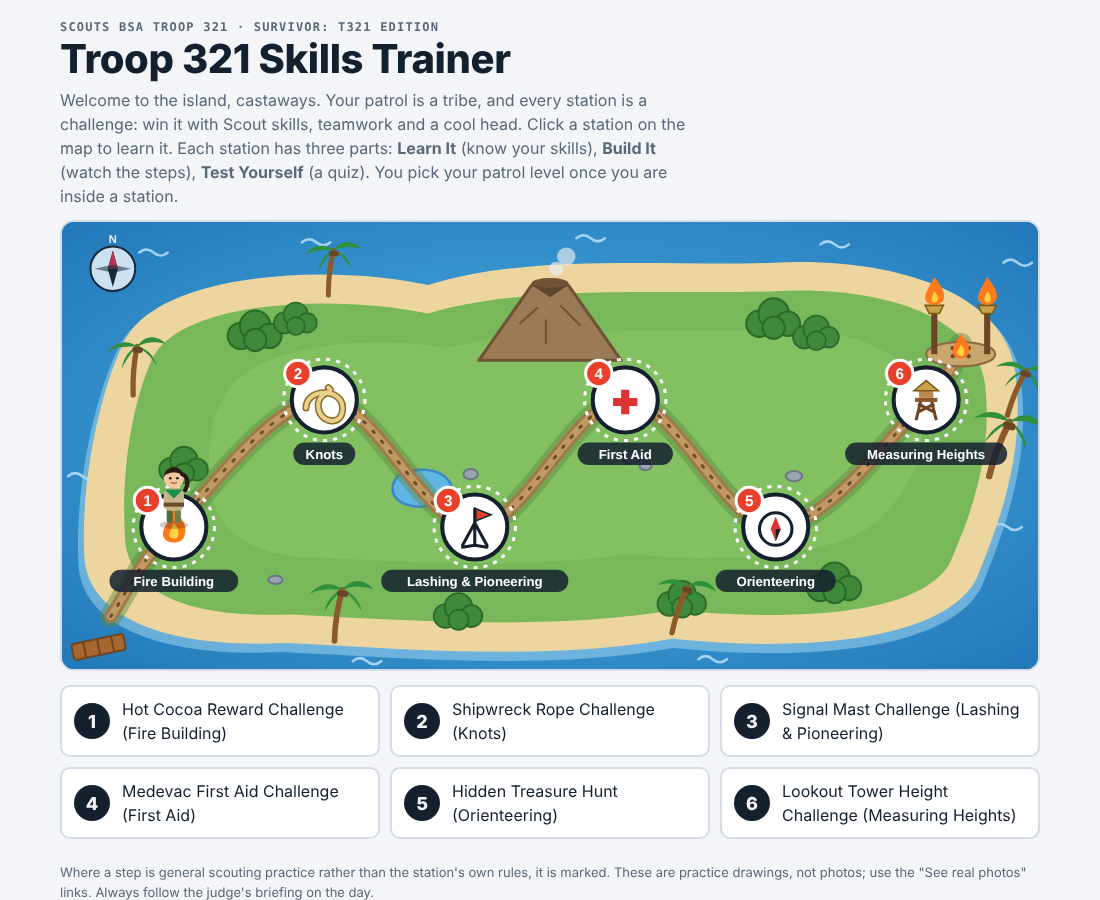
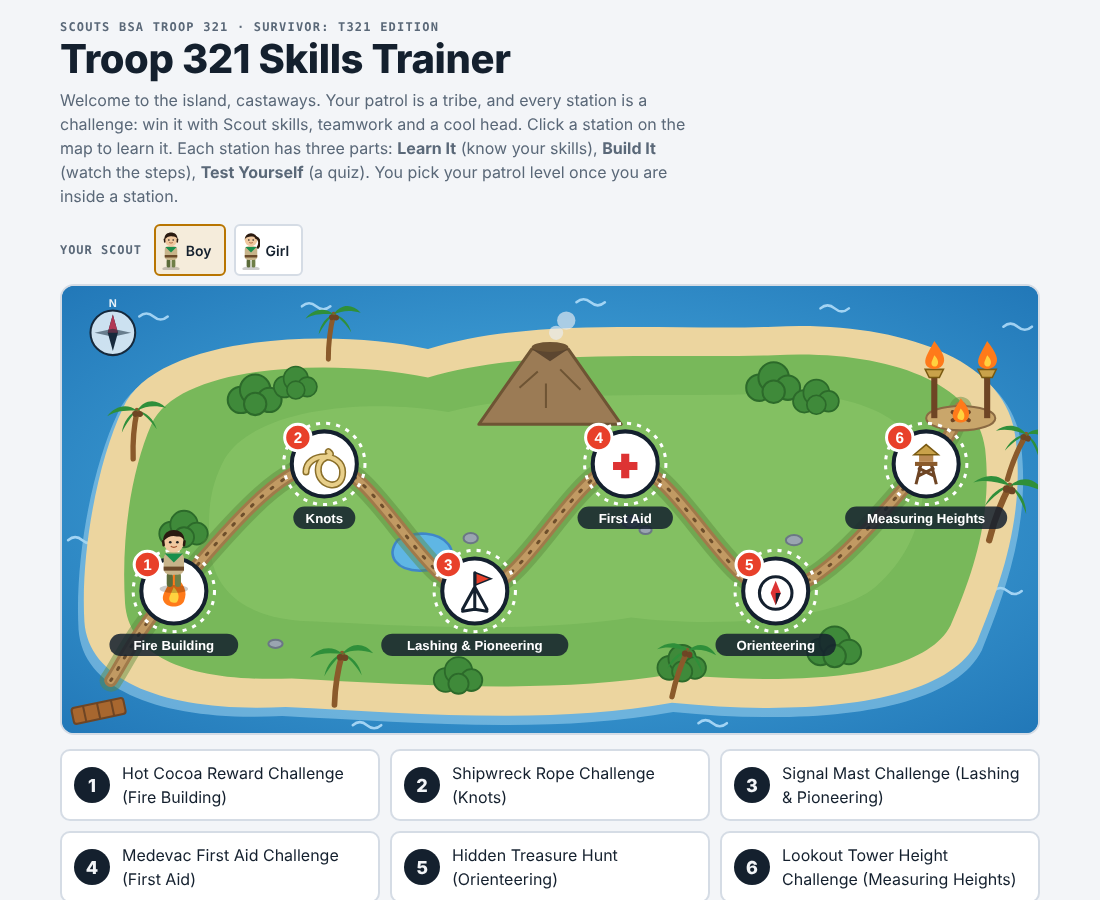
Let scouts choose a boy or girl scout on the map
- "Your scout: Boy / Girl" picker above the island map, with a small
  preview of each figure; the choice is remembered per device
- New boy figure (short hair); the girl figure keeps her ponytail
- Default is Boy; switching updates the scout on the map instantly

Claude-Session: https://claude.ai/code/session_01KXBQg6WSUbtGTmjtFy61pH

diff --git a/index.html b/index.html
@@ -22,6 +22,9 @@ button:focus-visible,a:focus-visible,[tabindex]:focus-visible{outline:3px solid 
 .lv button{font:600 14px var(--disp);padding:8px 14px;border-radius:6px;border:2px solid var(--line);background:var(--panel);color:var(--fg);cursor:pointer}
 .lv button[aria-pressed=true]{color:#fff;border-color:transparent}
 .lv button[data-l=T][aria-pressed=true]{background:#1a8f4c}.lv button[data-l=W][aria-pressed=true]{background:#b87500}.lv button[data-l=B][aria-pressed=true]{background:#c0304a}
+.scpick{display:flex;align-items:center;gap:8px;flex-wrap:wrap;margin:10px 0 8px}.scpick .lvlab{margin:0 4px 0 0}
+.scpick button{display:inline-flex;align-items:center;gap:6px;font:600 14px var(--disp);padding:4px 12px 4px 6px;border-radius:6px;border:2px solid var(--line);background:var(--panel);color:var(--fg);cursor:pointer}
+.scpick button[aria-pressed=true]{border-color:var(--acc);background:color-mix(in srgb,var(--acc) 14%,var(--panel))}
 .lvlab{font:600 12px var(--mono);color:var(--mute);margin-top:14px;text-transform:uppercase;letter-spacing:.08em}
 /* map */
 #map{margin-top:6px}
@@ -160,6 +163,15 @@ function drawGlv(){
   document.querySelectorAll('#glv button').forEach(b=>b.onclick=()=>{LEVEL=b.dataset.l;try{localStorage.setItem('cp-level',LEVEL)}catch(e){}drawGlv();document.documentElement.style.setProperty('--acc',LV[LEVEL].col);
     if(!$('#st').hidden){openStation(cur.id,cur.tab)}else drawMap()});
 }
+/* ---------- map scout: boy or girl, remembered per device ---------- */
+let SCOUT='boy';try{const v=localStorage.getItem('cp-scout');if(v==='boy'||v==='girl')SCOUT=v}catch(e){}
+const scoutFig=k=>`<ellipse cx="0" cy="2" rx="14" ry="4" fill="#0003"/>
+   <g class="lg1"><rect x="-7" y="-14" width="6" height="14" rx="3" fill="#5b6b3a"/></g><g class="lg2"><rect x="1" y="-14" width="6" height="14" rx="3" fill="#6f7f48"/></g>
+   <rect x="-10" y="-34" width="20" height="22" rx="6" fill="#c8b48a"/><path d="M-9-33 0-24 9-33Z" fill="#1a8f4c"/><rect x="-10" y="-20" width="20" height="4" fill="#6b4a2a"/>
+   <circle cy="-44" r="10" fill="#f0c9a0"/>${k==='girl'
+    ?'<path d="M-10-45a10 10 0 0 1 20 0c-3-6-17-6-20 0Z" fill="#2a1a10"/><path d="M8-48c6 2 7 10 3 16" stroke="#2a1a10" stroke-width="4" fill="none" stroke-linecap="round"/>'
+    :'<path d="M-10.5-44.5C-11-53-5-56 0-56S11-53 10.5-44.5C9-49 6-50 3-49.5-1-51-6-50-10.5-44.5Z" fill="#2a1a10"/><path d="M-10.5-45-10-41" stroke="#2a1a10" stroke-width="2.5" stroke-linecap="round"/><path d="M10.5-45 10-41" stroke="#2a1a10" stroke-width="2.5" stroke-linecap="round"/>'}
+   <circle cx="-3.5" cy="-44" r="1.3" fill="#222"/><circle cx="3.5" cy="-44" r="1.3" fill="#222"/><path d="M-3-40q3 2 6 0" stroke="#a0522d" stroke-width="1.2" fill="none"/>`;
 /* ---------- landing map ---------- */
 /* Station order on the map. To add a station: define ST.<id> and NINFO.<id> (name, skill, res = learn-more links, ic = map icon), then add the id here.
    Ids are stable keys (saved scores use them), so never reuse or renumber an old id.
@@ -181,18 +193,14 @@ function drawMap(){
   $('#st').hidden=true;$('#map').hidden=false;$('#lvbox').hidden=true;
   const pts=[[48,388],...NODES.map(n=>[n.x,n.y]),[884,120]];
   const pd=catmull(pts);
-  const sc=`<g id="scout" transform="translate(${NODES[scoutAt].x},${NODES[scoutAt].y-4})"><g id="scoutin"><ellipse cx="0" cy="2" rx="14" ry="4" fill="#0003"/>
-   <g class="lg1"><rect x="-7" y="-14" width="6" height="14" rx="3" fill="#5b6b3a"/></g><g class="lg2"><rect x="1" y="-14" width="6" height="14" rx="3" fill="#6f7f48"/></g>
-   <rect x="-10" y="-34" width="20" height="22" rx="6" fill="#c8b48a"/><path d="M-9-33 0-24 9-33Z" fill="#1a8f4c"/><rect x="-10" y="-20" width="20" height="4" fill="#6b4a2a"/>
-   <circle cy="-44" r="10" fill="#f0c9a0"/><path d="M-10-45a10 10 0 0 1 20 0c-3-6-17-6-20 0Z" fill="#2a1a10"/><path d="M8-48c6 2 7 10 3 16" stroke="#2a1a10" stroke-width="4" fill="none" stroke-linecap="round"/><circle cx="-3.5" cy="-44" r="1.3" fill="#222"/><circle cx="3.5" cy="-44" r="1.3" fill="#222"/>
-   <path d="M-3-40q3 2 6 0" stroke="#a0522d" stroke-width="1.2" fill="none"/></g></g>`;
+  const sc=`<g id="scout" transform="translate(${NODES[scoutAt].x},${NODES[scoutAt].y-4})"><g id="scoutin">${scoutFig(SCOUT)}</g></g>`;
   const nodes=NODES.map((n,i)=>{const I=NINFO[n.id],live=LIVE.includes(n.id);const stz=starsOf(n.id);
     return `<g class="node${live?'':' locked'}" tabindex="0" role="button" aria-label="Station ${i+1}: ${I.name} (${I.skill})${live?'':' (coming soon)'}" data-i="${i}" transform="translate(${n.x},${n.y})">
      <circle class="ring" r="40" fill="none" stroke="#fff" stroke-width="3" stroke-dasharray="4 6"/><g class="disc"><circle r="32" fill="${live?'#fff':'#cfd6de'}" stroke="#14202e" stroke-width="4"/><g transform="translate(0,2)">${I.ic}</g></g>
      <circle cx="-26" cy="-26" r="13" fill="#e8402a" stroke="#fff" stroke-width="3"/>${tx(-26,-21,i+1,{s:15,f:'#fff',w:800})}
      ${live?'':`<g transform="translate(24,-26)"><rect x="-10" y="-8" width="20" height="16" rx="3" fill="#6b7c8f"/><path d="M-5-8v-4a5 5 0 0 1 10 0v4" stroke="#6b7c8f" stroke-width="3" fill="none"/></g>`}
      <g class="skl"><rect x="${-I.skill.length*4.1-10}" y="42" width="${I.skill.length*8.2+20}" height="22" rx="11" fill="#14202e" opacity=".85"/>${tx(0,58,I.skill,{s:13,f:'#fff'})}</g>${stz?tx(0,84,stz,{s:16,f:'#ffd23f'}):''}</g>`}).join('');
-  $('#map').innerHTML=`<div class="world">${sv(`
+  $('#map').innerHTML=`<div class="scpick" role="group" aria-label="Choose your scout"><span class="lvlab">Your scout</span>${[['boy','Boy'],['girl','Girl']].map(([k,t])=>`<button data-s="${k}" aria-pressed="${k===SCOUT}"><svg viewBox="-14 -60 28 64" width="18" height="40" aria-hidden="true">${scoutFig(k)}</svg>${t}</button>`).join('')}</div><div class="world">${sv(`
    <defs><radialGradient id="sea" cx="50%" cy="50%" r="75%"><stop offset="0" stop-color="#4fb4e6"/><stop offset="1" stop-color="#1f74b5"/></radialGradient></defs>
    <rect width="960" height="440" fill="url(#sea)"/>
    ${[[90,30],[250,20],[520,16],[760,22],[930,300],[640,430],[300,432],[20,250],[940,40]].map(([x,y])=>`<path d="M${x-14} ${y}q7-6 14 0t14 0" fill="none" stroke="#bfe6ff" stroke-width="2.5" stroke-linecap="round" opacity=".8"/>`).join('')}
@@ -216,6 +224,8 @@ function drawMap(){
    <div class="slist">${NODES.map((n,i)=>{const live=LIVE.includes(n.id);return `<button class="sbtn" data-i="${i}"${live?'':' disabled'}><span class="n">${i+1}</span><span>${NINFO[n.id].name} (${NINFO[n.id].skill})<small>${live?'':'Coming soon'} <span class="stars">${starsOf(n.id)}</span></small></span></button>`}).join('')}</div>`;
   const road=document.getElementById('road');const L=road.getTotalLength();
   pathLens=NODES.map(n=>{let bi=0,bd=1e9;for(let s=0;s<=600;s++){const p=road.getPointAtLength(L*s/600);const d=(p.x-n.x)**2+(p.y-n.y)**2;if(d<bd){bd=d;bi=s}}return L*bi/600});
+  document.querySelectorAll('.scpick button').forEach(b=>b.onclick=()=>{SCOUT=b.dataset.s;try{localStorage.setItem('cp-scout',SCOUT)}catch(e){}
+    document.querySelectorAll('.scpick button').forEach(x=>x.setAttribute('aria-pressed',x===b));document.getElementById('scoutin').innerHTML=scoutFig(SCOUT)});
   document.querySelectorAll('.node,.sbtn').forEach(el=>{const go=()=>{const i=+el.dataset.i;const n=NODES[i];if(!LIVE.includes(n.id))return;walkTo(i)};
     el.onclick=go;el.onkeydown=e=>{if(e.key==='Enter'||e.key===' '){e.preventDefault();go()}}});
 }
